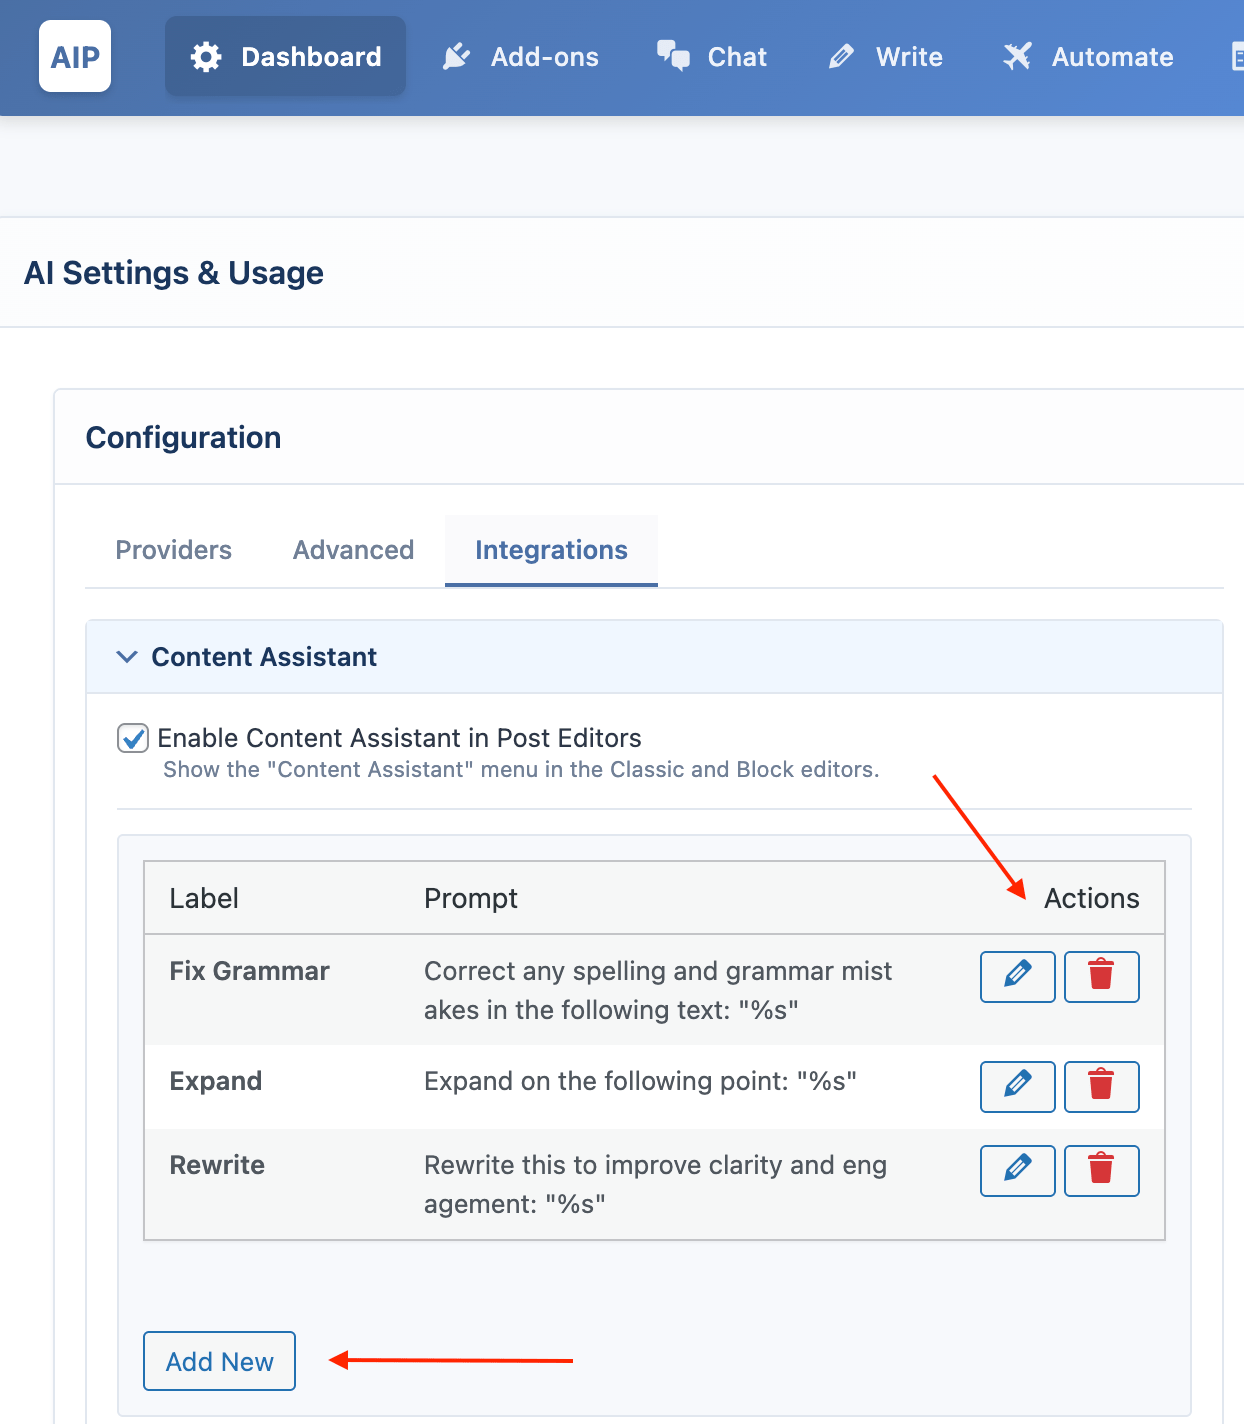
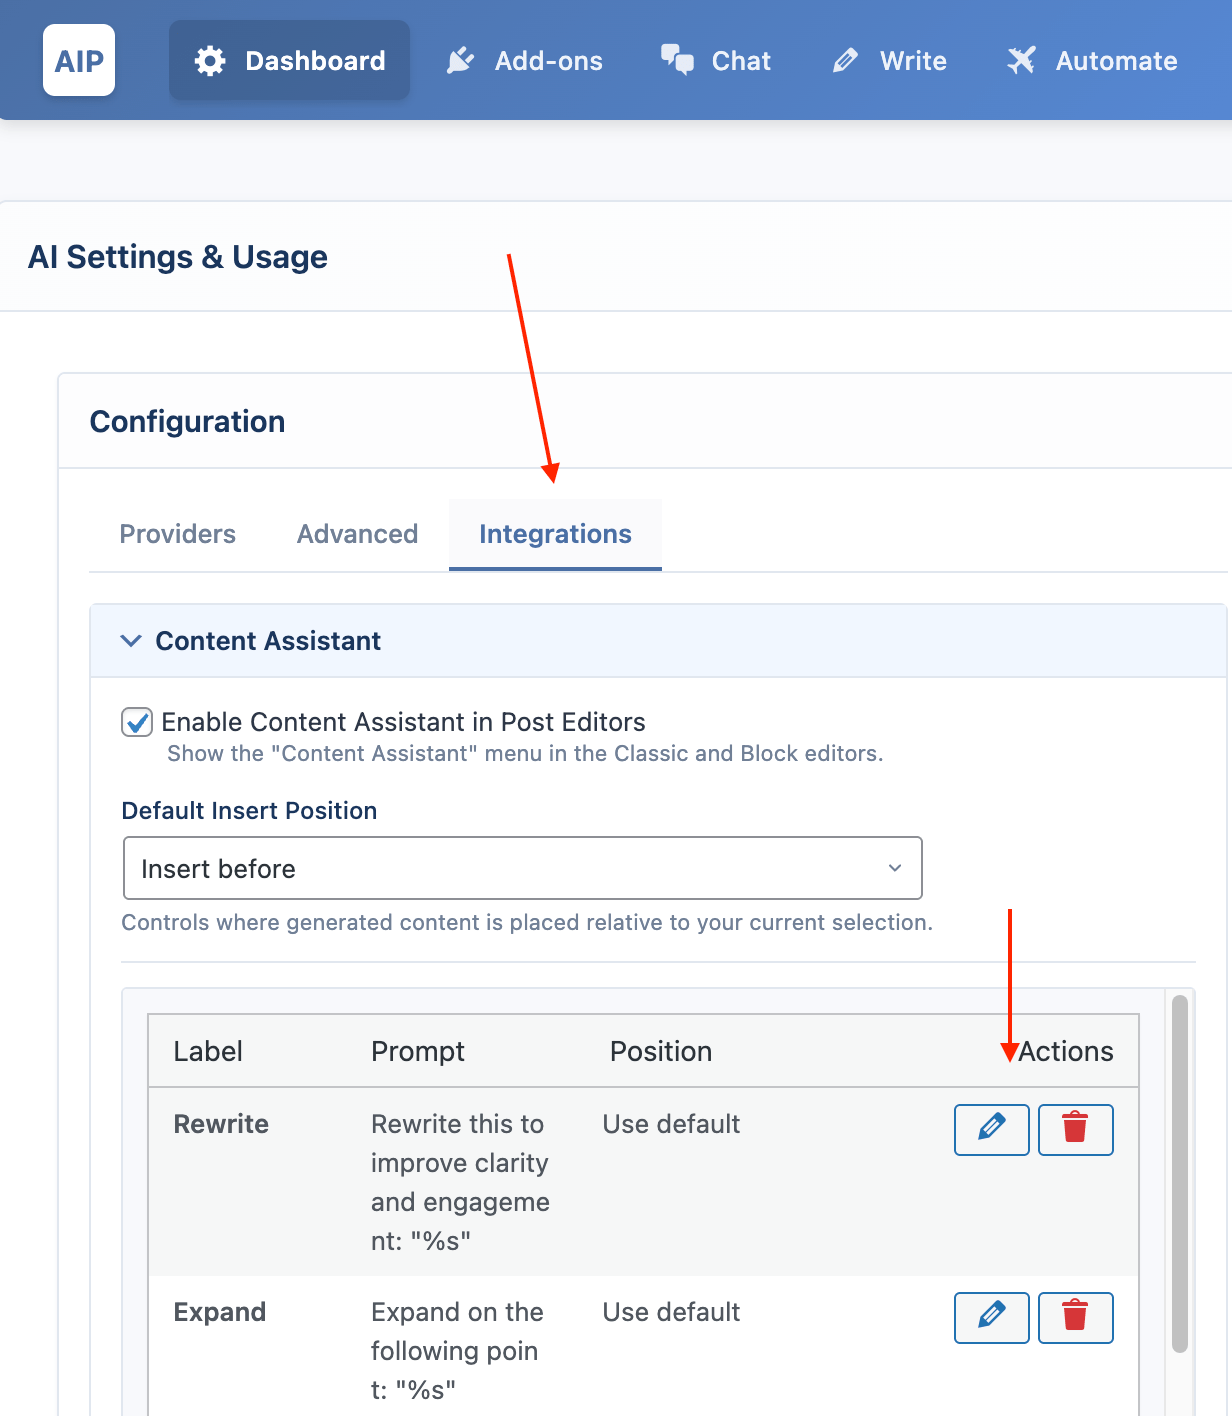
assistant improvements

diff --git a/docs/content-assistant.md b/docs/content-assistant.md
@@ -16,111 +16,113 @@ import caeditor from '/img/content-assistant/ca-editor.png';
 import caeditorusage from '/img/content-assistant/ca-editor-usage.png';
 import caeditoractions from '/img/content-assistant/ca-editor-actions.png';
 import cablockeditor from '/img/content-assistant/ca-block-editor.png';
+import careset from '/img/content-assistant/reset.png';
+import caposition from '/img/content-assistant/position.png';
 
 # Content Assistant
-
 The Content Assistant provides a suite of tools to improve existing content directly within your WordPress admin area. You can bulk update posts, generate new titles and excerpts from the posts list, and process text directly within the post editor.
 
 ## Activation
-
 The Content Assistant is a free add-on that must be activated first.
 
-1.  Navigate to **AIP > Add-ons**.
-2.  Find the **Content Assistant** addon and click **Activate**.
-
-<img src={caaddon}  />
+1. Navigate to **AIP > Add-ons**.  
+2. Find the Content Assistant addon and click **Activate**.  
+   <img src={caaddon} />  
 
 Once activated, three new features become available across your Posts, Pages, and Products list screens and editors.
 
 ## Content Assistant
-
 This feature allows you to update multiple posts at once using a configuration tool.
 
-1.  Go to your **Posts**, **Pages**, or **Products** list.
-2.  Select the checkboxes next to the items you want to update.
+1. Go to your Posts, Pages, or Products list.  
+2. Select the checkboxes next to the items you want to update.  
+   <img src={cabulkbutton} />  
+3. Click the **Content Assistant** button at the top of the list.  
 
-<img src={cabulkbutton} />
+This opens the Content Assistant modal to configure AI updates.
 
-3.  Click the **Content Assistant** button that appears at the top of the list.
+- **Templates**: Save and load your entire configuration as a template for quick reuse.  
+  <img src={catemplate} />  
+- **AI**: Choose the AI Provider and Model, and adjust Temperature and Max Tokens.  
+  <img src={caai} />  
+- **Context**: Optionally use a Vector Store to provide your knowledge base as context.  
+  <img src={cacontext} />  
+- **Prompts**: Check each field to update (Title, Excerpt, Content, Tags, Meta Description, Focus Keyword). For each, write a custom prompt. Use placeholders like `{original_title}`, `{original_content}`, and `{original_focus_keyword}` to reference existing data.  
+  <img src={caprompts} />  
 
-This will open the **Content Assistant** modal, where you can configure the AI updates.
+Click **Start** to begin. The modal displays a live log for each post.
 
--   **Templates**: Save and load your entire configuration as a template for quick reuse.
-
-<img src={catemplate} />
-
--   **AI**: Choose the AI Provider and Model for the tasks. You can also adjust the Temperature and Max Tokens for the generation.
-
-<img src={caai} />
-
--   **Context**: Enable a Vector Store to provide your knowledge base as context to the AI, ensuring updates are aligned with your custom data.
-
-<img src={cacontext} />
-
--   **Prompts**: Check the box for each field you want the AI to update (Title, Excerpt, Content, Tags, Meta Description, Focus Keyword). For each selected field, a tab will appear where you can write a custom prompt. Use placeholders like `{original_title}`, `{original_content}`, and `{original_focus_keyword}` to provide the AI with the post's existing data.
-
-<img src={caprompts} />
-
--   Click **Start** to begin the process. The modal will display a log of the progress for each post.
-
-:::tip Available Placeholders
-You can use the following placeholders in your prompts:
-`{original_title}`, `{original_content}`, `{original_excerpt}`, `{original_meta_description}`, `{original_focus_keyword}`, `{original_tags}`, `{categories}`.
-
-When enhancing Products, you can use additional placeholders like `{price}`, `{sku}`, and `{attributes}`. See the [WooCommerce Product Writer](/docs/woocommerce-product-writer) documentation for a full list.
-:::
+**Tip:** Available placeholders include `{original_title}`, `{original_content}`, `{original_excerpt}`, `{original_meta_description}`, `{original_focus_keyword}`, `{original_tags}`, `{categories}`.  
+For Products, see the WooCommerce Product Writer docs for product placeholders.
 
 ## Quick Assistant Actions
+For single-post improvements, use the “✍ Assistant” link directly from the post list.
 
-For single-post improvements, you can use the "✍ Assistant" link directly from the post list.
+1. Go to your Posts, Pages, or Products list.  
+2. Hover a post to reveal action links.  
+3. Click ✍ Assistant to open a dropdown.  
+   <img src={caenhance} />  
+4. Choose an action like **Generate Title**, **Generate Excerpt**, **Generate Tags**, or **Generate Meta Desc**.  
 
-1.  Go to your **Posts**, **Pages**, or **Products** list.
-2.  Hover over a post to reveal the action links.
-3.  Click on **✍ Assistant**. A dropdown menu will appear.
-
-<img src={caenhance} />
-
-4.  Select an action, such as **Generate Title**, **Generate Excerpt**, **Generate Tags** or **Generate Meta Desc**.
-
-A modal will appear with several AI-generated suggestions. Click any suggestion to apply it to the post instantly.
+A modal shows multiple AI suggestions — click to apply.
 
 ## Editor Integration
+Use the Content Assistant directly inside the WordPress Block and Classic editors to process selected text with AI.
 
-The Content Assistant can also be used directly inside the WordPress Block and Classic editors. This allows you to select any piece of text and process it with an AI prompt.
+1. Go to **AIP > Dashboard** and open the **Integrations** tab.  
+2. Open the Content Assistant accordion.  
+   <img src={caeditor} width="600" />  
+3. Check **Enable Content Assistant in Post Editors**.  
 
-### Enabling the Editor Buttons
+### Block Editor (Gutenberg)
 
-First, you must enable the feature in the main settings.
+1. Select text in a paragraph/heading block.  
+2. Click the ✍ AIP Content Assistant dropdown in the block toolbar (top of editor or inline toolbar).  
+   <img src={cablockeditor} />  
+3. Pick an action (e.g., Rewrite, Expand, Fix Grammar, Summarize, Create Outline, Generate FAQs, Simplify Tone). 
 
-1.  Navigate to **AIP > Dashboard** and click the **Integrations** tab.
-2.  Open the **Content Assistant** accordion.
+**Recent actions** and **Undo** are available for quick reuse and reverting.
 
-<img src={caeditor} width="600" />
+### Classic Editor
 
-3.  Check the box to **Enable Content Assistant in Post Editors**.
+1. Select text in the editor.  
+2. Click the ✍ AIP Content Assistant dropdown in the TinyMCE toolbar.  
+   <img src={caeditorusage} />  
+3. Choose an action.  
 
-### Using the Assistant
+## Managing Custom Actions
+You can create your own actions for the editor menus.
 
-Once enabled, a new "Content Assistant" button will appear in the editor's toolbar.
+1. Go to **AIP > Dashboard > Integrations > Content Assistant**.  
+2. Add, Edit, or Delete actions.  
 
-1.  In the post editor, select the text you want to modify.
-2.  Click the **Content Assistant** dropdown in the toolbar in Classic Editor.
+<img src={caeditoractions} width="600"/>  
 
-<img src={caeditorusage} />
+**Prompts**
 
-3. Click the **gear** icon in the toolbar in Block Editor.
+Use `%s` in the prompt where the selected text should be inserted.
 
-<img src={cablockeditor} />
+Example:  Rewrite this to improve clarity and engagement: “%s”
 
-4.  Choose an action (e.g., Rewrite, Expand, Fix Grammar). The AI will process the selected text and replace it with the result.
+**Insert position**
 
-### Managing Custom Actions
+- Replace selection (default)  
+- Insert after  
+- Insert before
 
-You can create your own custom actions for the editor dropdown menu.
+<img src={caposition} width="600" />
 
-1.  Go to the **Content Assistant** settings accordion mentioned above.
-2.  Use the table to **Add New**, **Edit**, or **Delete** custom actions.
+**Defaults and Reset**
 
-<img src={caeditoractions} width="600"/>
+The assistant ships with seven built-in actions:  
+- Rewrite  
+- Expand  
+- Fix Grammar & Spelling  
+- Summarize  
+- Create Outline (H2/H3)  
+- Generate FAQs  
+- Simplify Tone  
 
-3.  In your prompt, use `%s` as a placeholder for the text a user will select in the editor.
+Click **Reset to Defaults** anytime to restore.
+
+<img src={careset} width="600" />
